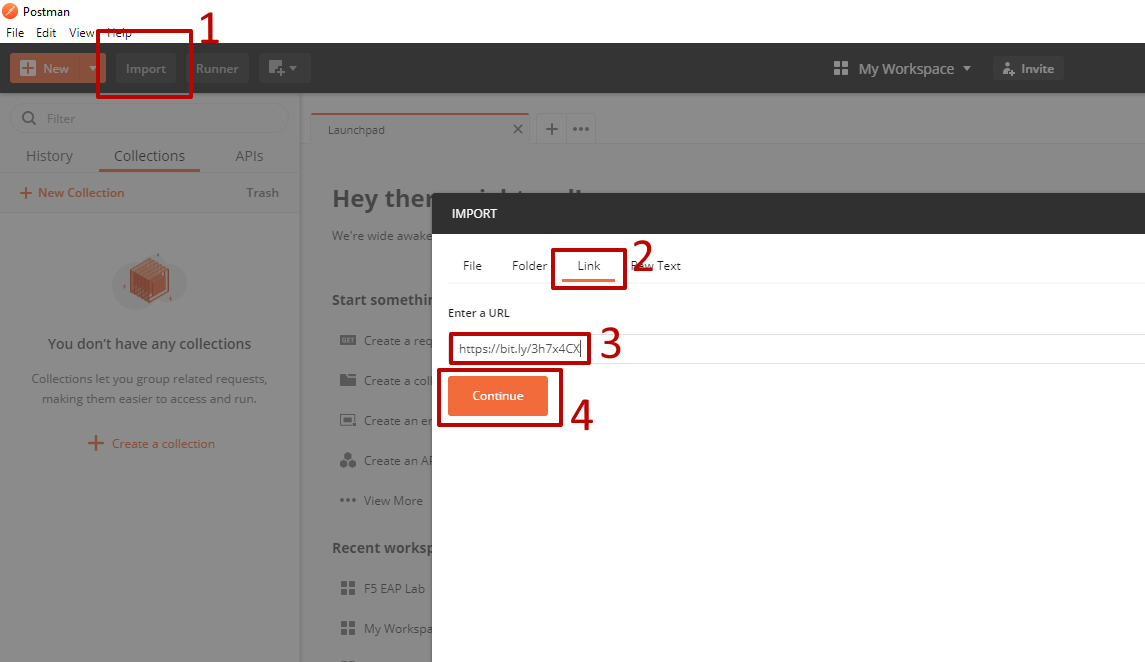
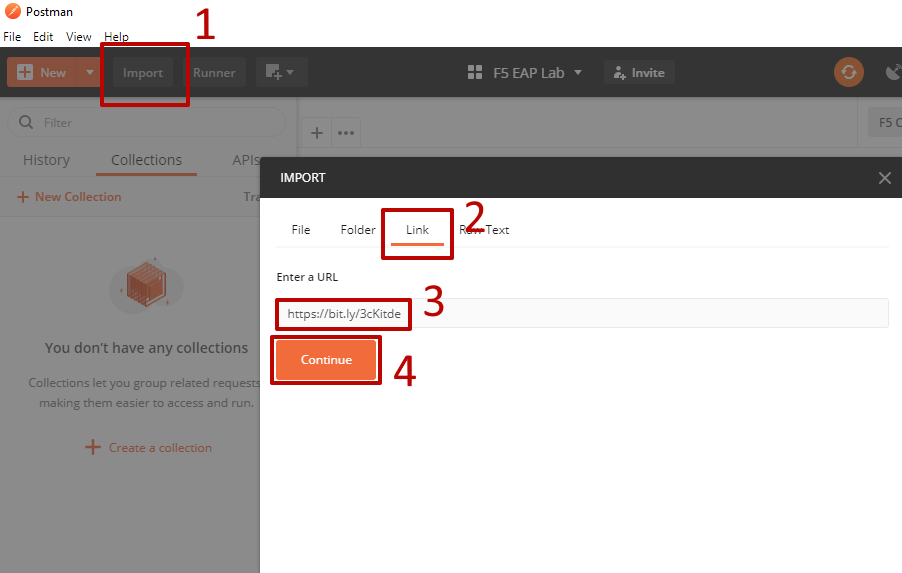
update collection links and images

diff --git a/docs/class6/lab/lab1.rst b/docs/class6/lab/lab1.rst
@@ -65,9 +65,9 @@ a. `Download Postman here <http://bit.ly/309wSLl>`_, open it, create a Postman a
 
 b. Import collection and environment JSON files from the `Git repo for this lab <https://github.com/f5devcentral/f5-agility-labs-dns/tree/master/docs/class6/postman>`_:
 
-    – `collection <https://raw.githubusercontent.com/f5devcentral/f5-agility-labs-dns/master/docs/class6/postman/F5%20Cloud%20Services%20DNS%20LAB.postman_collection.json>`_
+    – `collection: **https://bit.ly/3cKitde**
 
-    – `environment <https://raw.githubusercontent.com/f5devcentral/f5-agility-labs-dns/master/docs/class6/postman/F5%20Cloud%20Services%20DNS%20LAB.postman_environment.json>`_
+    – `environment: **https://bit.ly/2A6D8ew**
 
    .. figure:: ../_figures/121.png
    .. figure:: ../_figures/121_1.png
